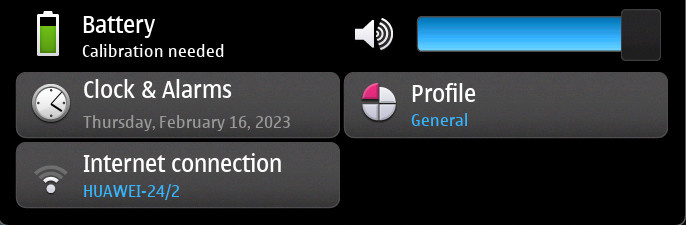
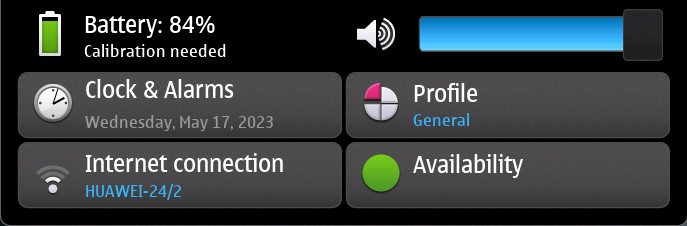
Added more to the Contacts section, and completed the UI and Settings sections, as needed.

diff --git a/source/chapters/ui.rst b/source/chapters/ui.rst
@@ -103,6 +103,56 @@
    :align: bottom
    :alt: Call in progress
 
+.. |status-presence-away| image:: /screenshots/status-area/general_presence_away.png
+   :width: 20px
+   :align: bottom
+   :alt: Presence Away
+
+.. |status-presence-busy| image:: /screenshots/status-area/general_presence_busy.png
+   :width: 20px
+   :align: bottom
+   :alt: Presence Busy
+
+.. |status-presence-offline| image:: /screenshots/status-area/general_presence_offline.png
+   :width: 20px
+   :align: bottom
+   :alt: Presence Offline
+
+.. |status-presence-online| image:: /screenshots/status-area/general_presence_online.png
+   :width: 20px
+   :align: bottom
+   :alt: Presence Online
+
+.. |status-presence-work| image:: /screenshots/status-area/general_presence_work.png
+   :width: 20px
+   :align: bottom
+   :alt: Presence Work
+
+.. |status-presence-travel| image:: /screenshots/status-area/general_presence_travel.png
+   :width: 20px
+   :align: bottom
+   :alt: Presence Travel
+
+.. |status-presence-sports| image:: /screenshots/status-area/general_presence_sports.png
+   :width: 20px
+   :align: bottom
+   :alt: Presence Sports
+
+.. |status-presence-out| image:: /screenshots/status-area/general_presence_out.png
+   :width: 20px
+   :align: bottom
+   :alt: Presence Out
+
+.. |status-presence-home| image:: /screenshots/status-area/general_presence_home.png
+   :width: 20px
+   :align: bottom
+   :alt: Presence Home
+
+.. |status-presence-cultural-activities| image:: /screenshots/status-area/general_presence_cultural_activities.png
+   :width: 20px
+   :align: bottom
+   :alt: Presence Cultural activities
+
 .. |current-mobile-network| image:: /screenshots/ui-main/current-mobile-network.png
    :scale: 60%
    :align: bottom
@@ -152,6 +202,26 @@
    :scale: 60%
    :align: bottom
    :alt: Status menu Select profile
+
+.. |my-availability| image:: /screenshots/ui-availability/my-availability.png
+   :scale: 60%
+   :align: bottom
+   :alt: My Availability
+
+.. |status-my-location| image:: /screenshots/ui-availability/status-my-location.png
+   :scale: 60%
+   :align: bottom
+   :alt: Status My location
+
+.. |availability-new-status| image:: /screenshots/ui-availability/availability-new-status.png
+   :scale: 60%
+   :align: bottom
+   :alt: Availability New status
+
+.. |status-select-icon| image:: /screenshots/ui-availability/status-select-icon.png
+   :scale: 60%
+   :align: bottom
+   :alt: Status Select icon
 
 .. |power-options| image:: /screenshots/ui-power/power-options.png
    :scale: 60%
@@ -421,6 +491,21 @@ To the left there's the clock display, then, some icons representing the status 
      |status-call|
      A phone call is in progress
 
+     |status-presence-online|
+     Your status is **Online**
+
+     |status-presence-away|
+     Your status is **Away**
+
+     |status-presence-busy|
+     Your status is **Busy**
+
+     |status-presence-offline|
+     Your status is **Offline**
+
+     |status-presence-work| |status-presence-travel| |status-presence-sports| |status-presence-out| |status-presence-home| |status-presence-cultural-activities|
+     Your status is **Custom**, if configured from #. :ref:`chapters/ui:New status`
+
 .. note:: If you tap on the status area, you will get the :ref:`chapters/ui:Status menu`
 
 Current mobile network
@@ -459,6 +544,9 @@ You will have the following options (from top to down, and left to right):
 #. :ref:`chapters/ui:Internet connection menu` button
 #. :ref:`chapters/ui:Volume slider`
 #. :ref:`chapters/ui:Profile selector` button
+#. :ref:`chapters/ui:Availability` button
+
+Availability is present only when there are :ref:`chapters/settings:VoIP and IM accounts` already configured.
 
 Battery (read only)
 """""""""""""""""""
@@ -530,6 +618,97 @@ To edit the default normal and silent profiles, or to create new custom profiles
      |select-profile|
 
 Checking the Vibrate option besides each of the profiles in the list enables vibration when that profile is active.
+
+Availability
+------------
+
+This option is present when you have :ref:`chapters/settings:VoIP and IM accounts` already configured.
+
+The dot in front of *Availability* represents current status. The default ones are:
+
+     * Online - a green dot
+     * Busy - a white stripe on a red dot
+     * Offline - a gray X on a white dot (this also means that the account is disconnected)
+
+An exclamation mark over the availability indicator means that the account is disconnected from the server.
+
+.. tip:: Check the internet connection, from :ref:`chapters/ui:Internet connection menu`.
+
+Tapping on the Availability button takes you to the My availability menu.
+
+     |my-availability|
+
+Here you have the following options:
+
+#. :ref:`chapters/ui:Select the availability status`
+#. :ref:`chapters/ui:Type your status message`
+#. :ref:`chapters/ui:My location`
+#. :ref:`chapters/ui:List of accounts`
+#. :ref:`chapters/ui:Accounts`
+#. :ref:`chapters/ui:New status`
+
+Press **Save** after you are done setting your status.
+
+Select the availability status
+""""""""""""""""""""""""""""""
+
+Here you can select your status, so that your contacts will know what's your availability.
+
+     |status-presence-online|
+     **Online** - a green dot
+
+     |status-presence-away|
+     **Away** - white clock hands on a blue dot
+
+     |status-presence-busy|
+     **Busy** - a white stripe on a red dot
+
+     |status-presence-offline|
+     **Offline** - a gray X on a white dot (this also disconnects the account)
+
+     |status-presence-work| |status-presence-travel| |status-presence-sports| |status-presence-out| |status-presence-home| |status-presence-cultural-activities|
+     **Custom** - other status, if configured from #. :ref:`chapters/ui:New status`
+
+Type your status message
+""""""""""""""""""""""""
+
+Type here the status message, that your contacts will see next to your name.
+
+My location
+"""""""""""
+
+Select here if and which level of location information to be displayed next to your status message, that your contacts will see next to your name.
+
+     |status-my-location|
+
+List of accounts
+""""""""""""""""
+
+Your :ref:`chapters/settings:VoIP and IM accounts` accounts will be shown here.
+
+Accounts
+""""""""
+
+This will take you to the list of existing :ref:`chapters/settings:VoIP and IM accounts`, from where you can also edit them, or add new ones.
+
+New status
+""""""""""
+
+Along the default (Online, Away, Busy, Offline) statuses, you can configure new ones.
+
+     |availability-new-status|
+
+You have the following options:
+
+**Name** - Type in the name of the status option. See :ref:`chapters/ui:Input and keyboard` about how to input text.
+
+**Icon** - Select the icon associated to the status (displayed when the status is active)
+
+     |status-select-icon|
+
+**Account Online/Offline** - Whether this status will trigger the account being *Online* or *Offline*.
+
+Tap **Save** when done configuring.
 
 Power options menu
 ------------------
@@ -795,7 +974,7 @@ Menus don't have a In-app menu of themselves, only windows have it.
 Notifications
 -------------
 
-Notifications appear as part of the task switcher.
+Notifications appear as part of the :ref:`chapters/ui:Task switcher`.
 
 When there are new notifications, the dashboard button in the :ref:`chapters/ui:Top-left area` will be highlighted/blinking.
 

diff --git a/source/chapters/contacts.rst b/source/chapters/contacts.rst
@@ -167,12 +167,19 @@ When you open the application, the list of your contacts will be shown.
 
      |contacts-main|
 
+The number next to *All contacts*, in brackets,  represents the total number of contacts.
+
 If you don't have any contacts yet, you will be automatically shown the :ref:`chapters/contacts:Get contacts` menu, from where you can get already existing contacts, by synchronizing, or importing.
 
-Options per-contact
--------------------
+.. note:: New addresses you receive instant messages (:term:`IM`) from will be automatically added as contacts. Only the IM address/ID will be filled-in, but you can add other information by editing the created contact.
 
-Tapping on a contact will show the details about that contact. From there you can also edit it, or share data about it. Tap on the :ref:`chapters/ui:In-app menu` of the contact.
+Tapping on a contact will show the details about that contact. From there you can also edit it, or share data about it.
+
+Tap on the photo of the contact to quickly :ref:`chapters/contacts:Edit` it.
+
+**Options per-contact**
+
+Tap on the :ref:`chapters/ui:In-app menu` of the contact, for more options.
 
      |contact-edit|
 
@@ -188,8 +195,6 @@ Edit
 ^^^^
 
 Editing a contact has the same options as creating a :ref:`chapters/contacts:New contact`.
-
-     |contacts-delete-select|
 
 Accounts
 ^^^^^^^^
@@ -213,8 +218,7 @@ Send contact detail
 
      |contact-send-avatar|
 
-Options in the in-app menu
---------------------------
+**Options in the in-app menu**
 
 Other general options are available in the :ref:`chapters/ui:In-app menu` of the Contacts application.
 
@@ -224,9 +228,14 @@ Available options:
 
 #. :ref:`chapters/contacts:Sort by ABC/Availability/Recent`
 #. :ref:`chapters/contacts:New contact`
-#. :ref:`chapters/contacts:My information`
 #. :ref:`chapters/contacts:Get contacts`
+#. :ref:`chapters/contacts:My information`
 #. :ref:`chapters/contacts:Settings`
+#. :ref:`chapters/contacts:Delete contacts`
+#. :ref:`chapters/contacts:Export`
+#. :ref:`chapters/contacts:Groups`
+
+The following options won't be available if you have no contacts: *Delete contacts*, *Export*, *Groups*.
 
 Sort by ABC/Availability/Recent
 ^^^^^^^^^^^^^^^^^^^^^^^^^^^^^^^
@@ -262,14 +271,6 @@ New contact
 
      |contact-new-done|
 
-My information
-^^^^^^^^^^^^^^
-
-     |contact-my-information|
-
-     |contact-my-information-add|
-
-
 Get contacts
 ^^^^^^^^^^^^
 
@@ -281,6 +282,13 @@ Get contacts
 
      |contacts-import-folder|
 
+My information
+^^^^^^^^^^^^^^
+
+     |contact-my-information|
+
+     |contact-my-information-add|
+
 Settings
 ^^^^^^^^
 
@@ -291,4 +299,15 @@ Settings
      |contacts-delete-all|
 
      |contacts-voicemail-number|
+
+Delete contacts
+^^^^^^^^^^^^^^^
+
+     |contacts-delete-select|
+
+Export
+^^^^^^
+
+Groups
+^^^^^^
 

diff --git a/source/chapters/settings.rst b/source/chapters/settings.rst
@@ -148,10 +148,15 @@
    :align: bottom
    :alt: Keyboard second language dictionary
 
+.. |accounts| image:: /screenshots/settings/accounts.png
+   :scale: 60%
+   :align: bottom
+   :alt: Accounts
+
 .. |account-setup-service| image:: /screenshots/settings/account-setup-service.png
    :scale: 60%
    :align: bottom
-   :alt: Alt
+   :alt: Account Setup service
 
 .. |device-lock-auto| image:: /screenshots/settings/device-lock-auto.png
    :scale: 60%
@@ -1353,7 +1358,13 @@ VoIP and IM accounts
 
 Here you can edit the settings of VoIP and IM accounts.
 
-If you have no accounts set, you will be shown a list of services from which you can pick to configure your accounts with.
+    |accounts|
+
+Selecting an account will allow you to edit its settings, which is the same as creating a new account. See below how to create new accounts.
+
+Tapping on **New** will allow you to configure new accounts.
+
+When you configure a new account, or if you have no accounts set, you will be shown a list of services from which you can pick to configure your accounts with.
 
     |account-setup-service|
 
